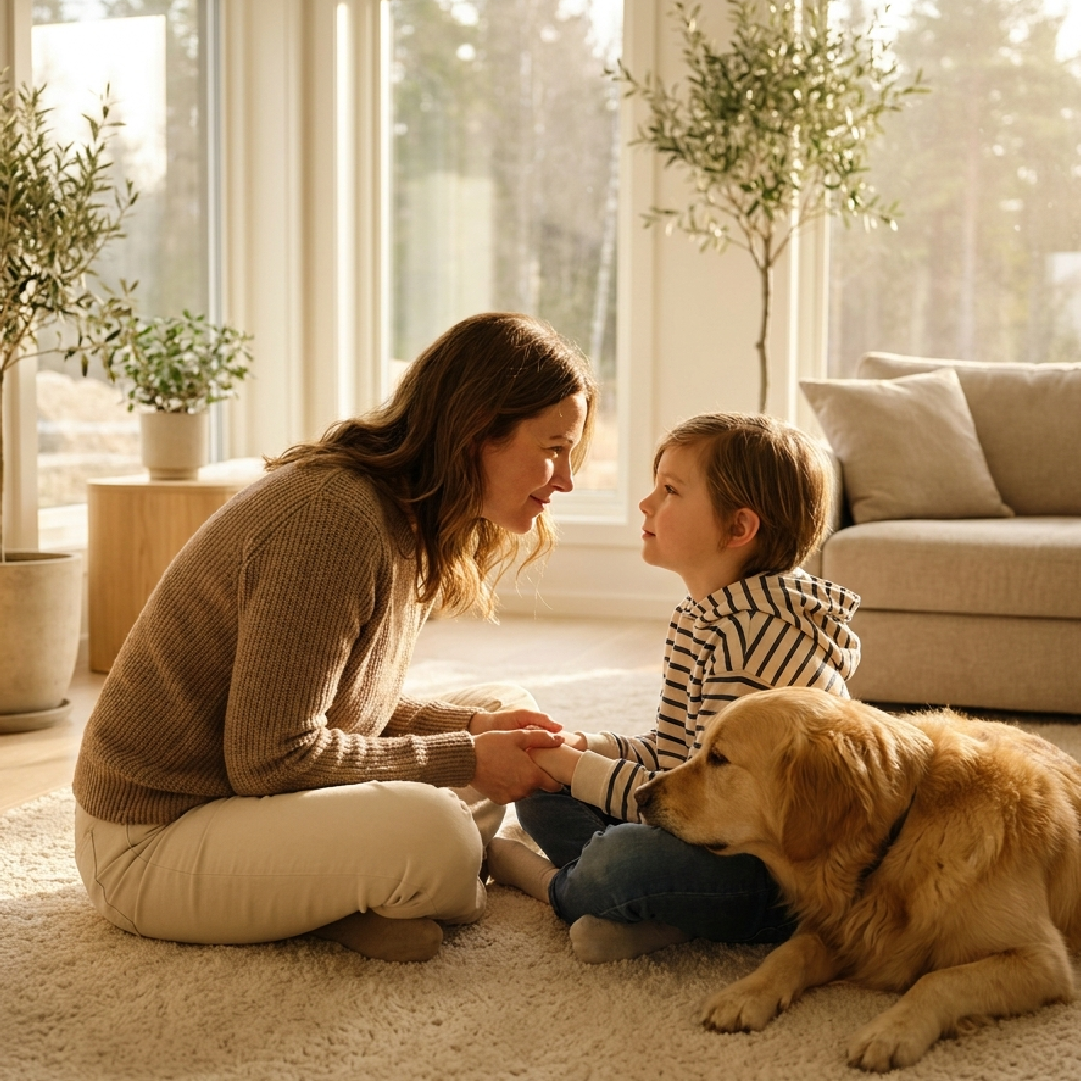
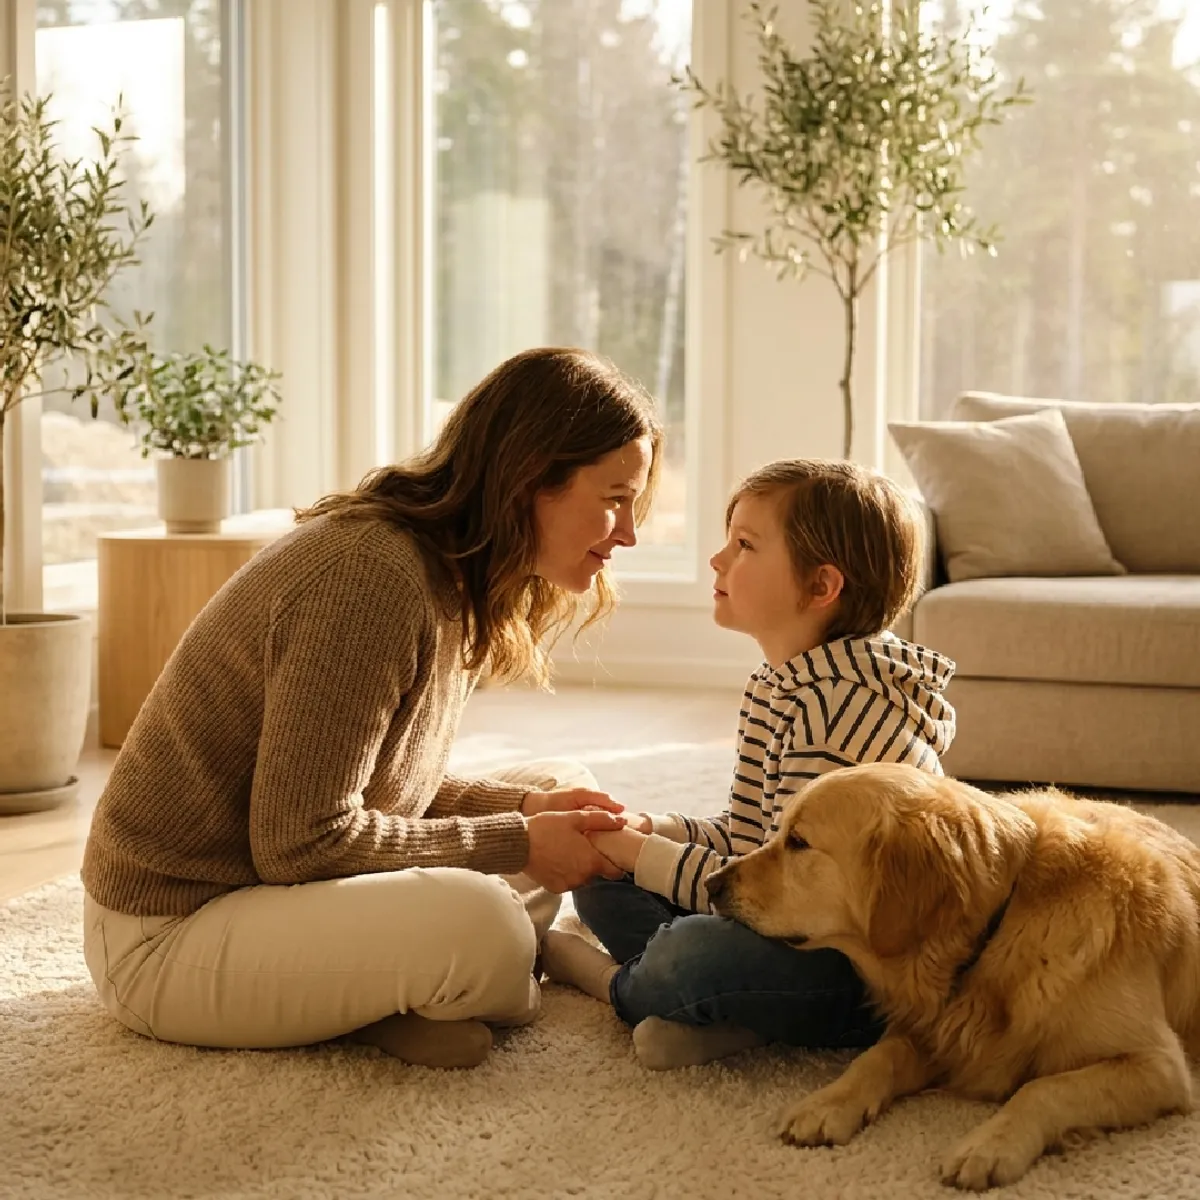
perf(images): convert heavy PNG assets to WebP and optimize oversized images for 95+ Lighthouse

diff --git a/data/blogsData.ts b/data/blogsData.ts
@@ -3180,7 +3180,7 @@ export const BLOG_POSTS: BlogArticle[] = [
   },
   publishDate: "September 30, 2026",
   lastUpdated: "September 30, 2026",
-  cardImage: "/Blog Images/ESA for PTSD/esa-for-ptsd-image.jpg",
+  cardImage: "/Blog Images/ESA for PTSD/esa-for-ptsd-image.webp",
   heroImageMobile: "/blogs/blog_hero-section-mobile.webp",
   heroImageTablet: "/blogs/blog_hero-section-tablet.webp",
   heroImageDesktop: "/blogs/blog-hero_section.webp",
@@ -3194,7 +3194,7 @@ export const BLOG_POSTS: BlogArticle[] = [
     "A licensed mental health professional must make the decision through an independent, clinical assessment. Understanding this process can help you know what to expect before requesting an ESA letter."
   ],
   introImage: {
-    src: "/Blog Images/ESA for PTSD/esa-for-ptsd-image.jpg",
+    src: "/Blog Images/ESA for PTSD/esa-for-ptsd-image.webp",
     alt: "esa for ptsd",
     width: 1024,
     height: 559,

diff --git a/components/home/EsaDogBenefitsSection.tsx b/components/home/EsaDogBenefitsSection.tsx
@@ -126,12 +126,12 @@ export function EsaDogBenefitsSection() {
         <div className="relative w-full max-w-[1440px] mx-auto h-[320px] sm:h-[480px] lg:h-[620px] xl:h-[710px] overflow-hidden">
           <Image
             quality={90}
-            src="/home/myesatherapist_homepage_benefitssection.png"
+            src="/home/myesatherapist_homepage_benefitssection.webp"
             alt="Woman smiling affectionately at her emotional support dog on the couch"
             fill
             className="object-cover object-top"
             sizes="(min-width: 1440px) 1440px, 100vw"
-            priority={false}
+            loading="lazy"
           />
         </div>
       </div>

diff --git a/components/psd-letter/WhoBenefitsSection.tsx b/components/psd-letter/WhoBenefitsSection.tsx
@@ -84,10 +84,11 @@ export function WhoBenefitsSection() {
       <div className="relative mt-12 w-full sm:mt-16 lg:mt-20">
         <div className="relative mx-auto aspect-[1440/620] w-full max-w-[1440px]">
           <Image
-            src="/psd-letter/psd_letter_benefits_Section.png"
+            src="/psd-letter/psd_letter_benefits_Section.webp"
             alt="Woman resting her head against her cat"
             fill
-            quality={95}
+            quality={85}
+            loading="lazy"
             className="object-cover object-center"
             sizes="(min-width: 1440px) 1440px, 100vw"
           />
